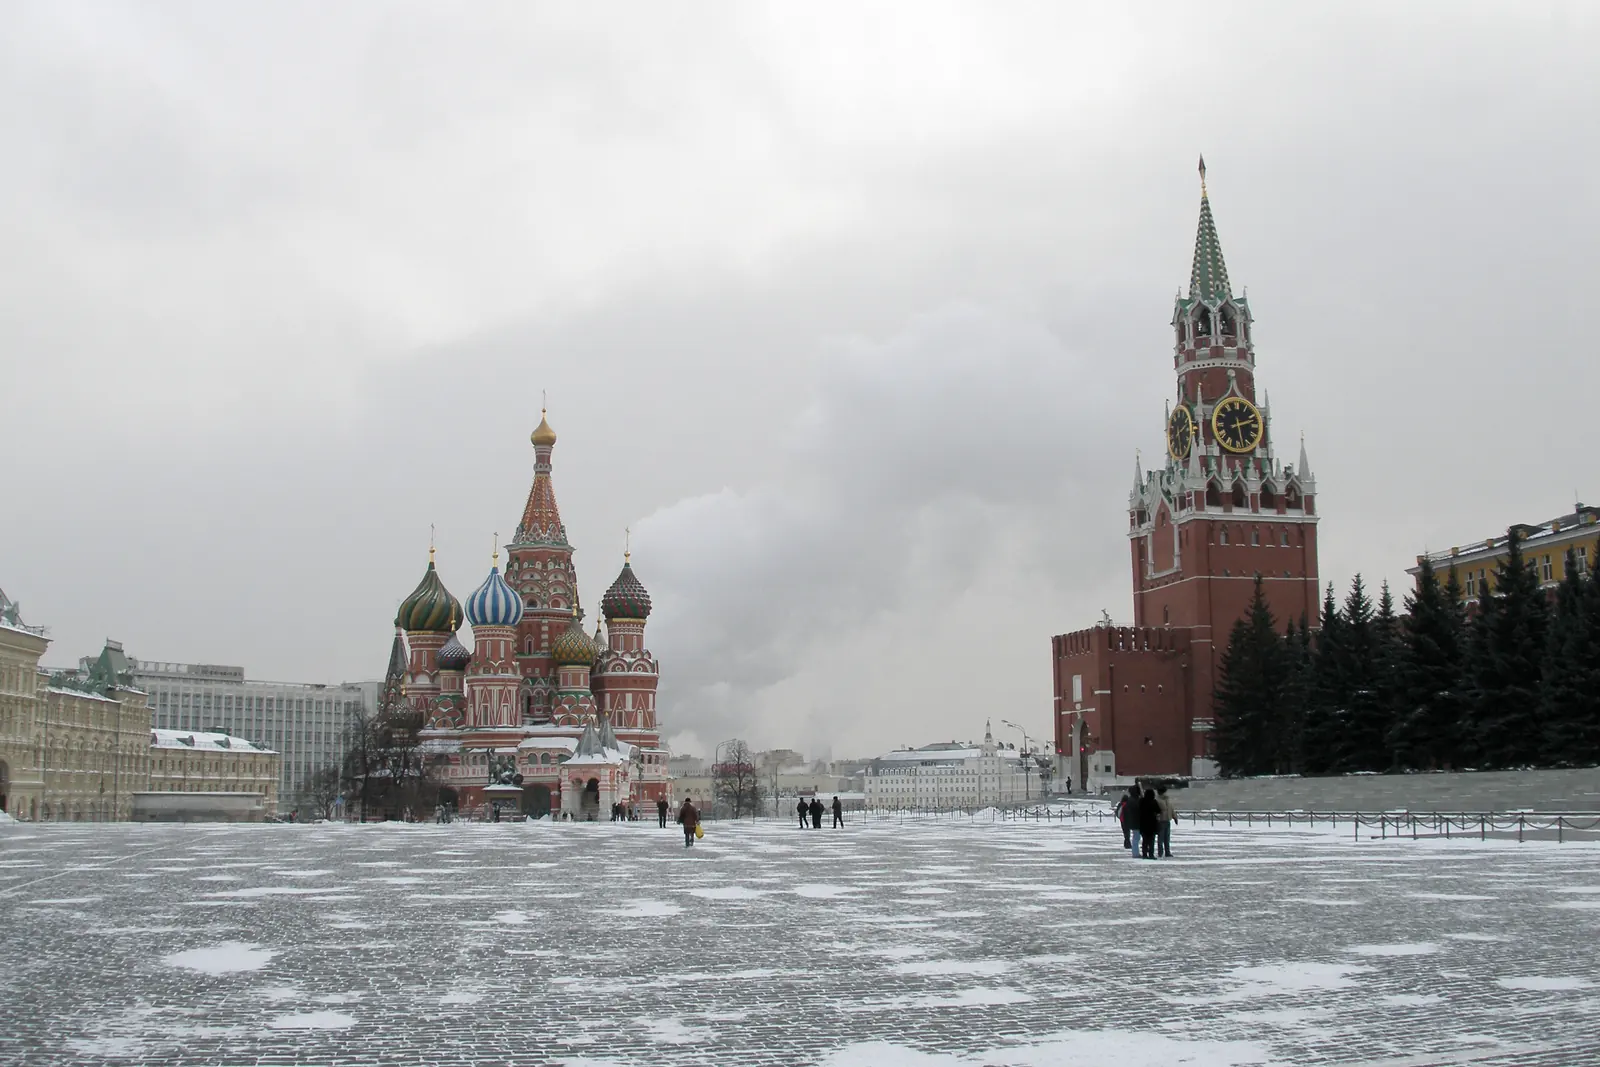
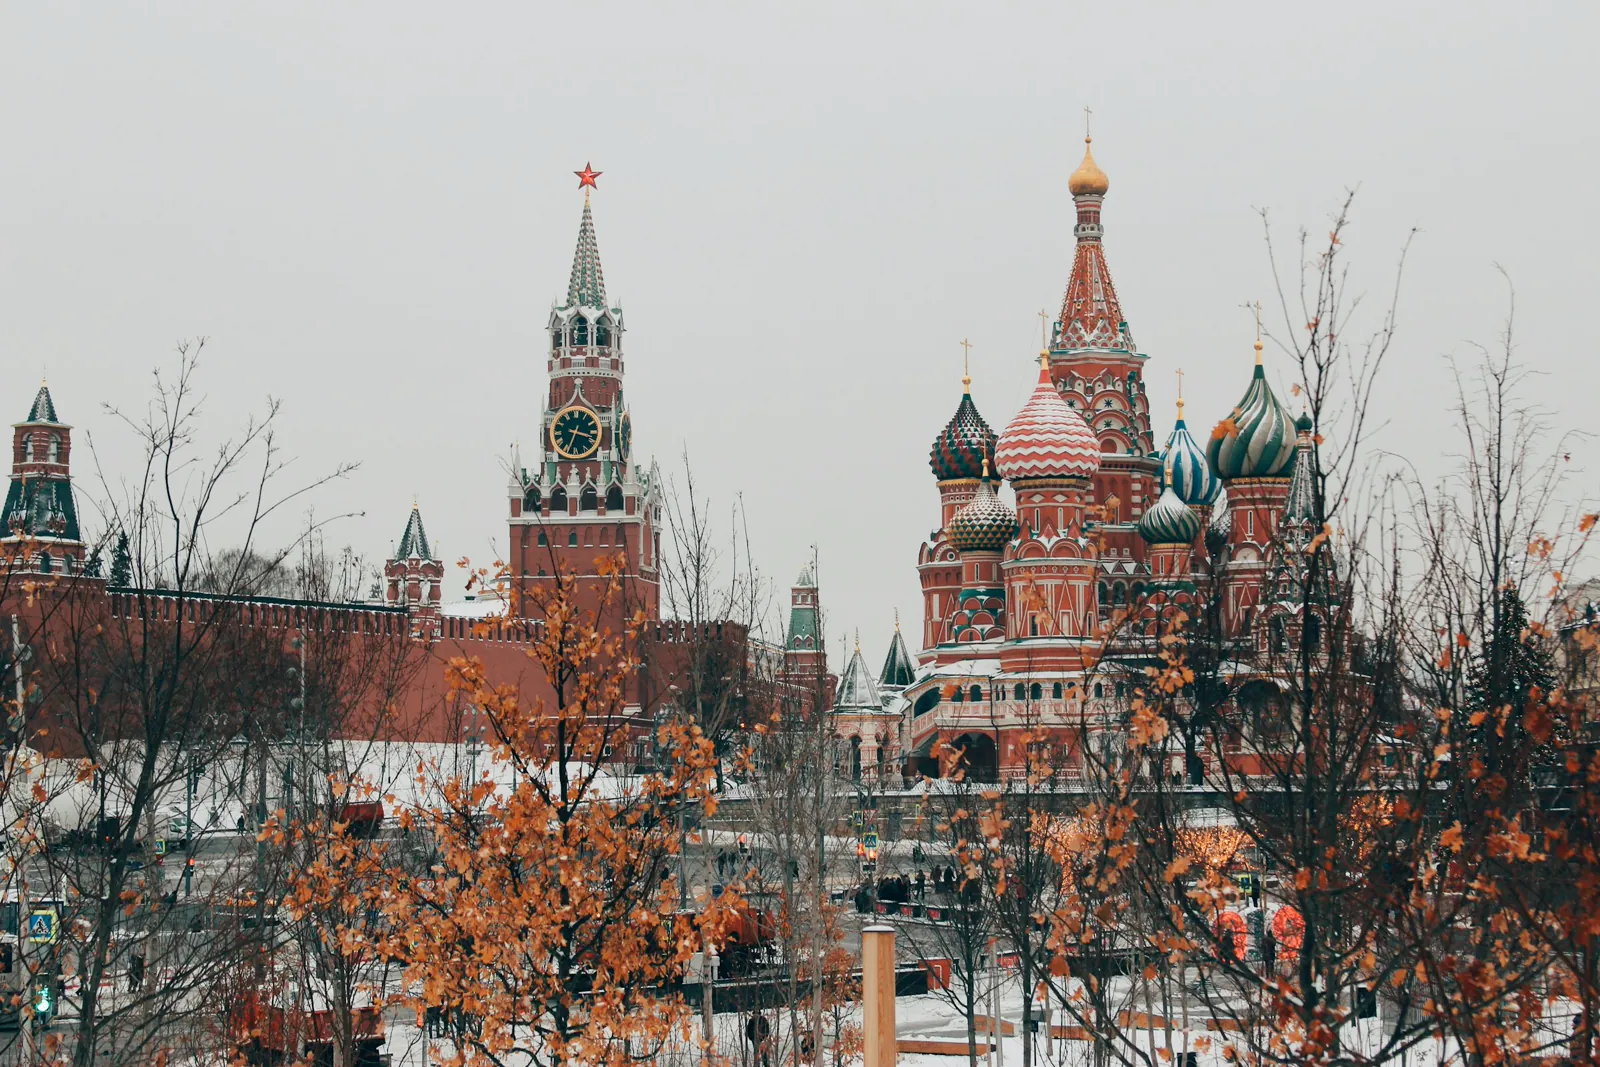
Update the first-page hero for the CEIBS Russia trip.
Replace the Red Square hero with the organizer photo, drop the guest-count line, enlarge the January 2027 dates, and make the eyebrow readable on the new image.

diff --git a/css/styles.css b/css/styles.css
@@ -162,7 +162,7 @@ button, input, textarea { font: inherit; color: inherit; }
   position: absolute;
   inset: 0;
   background:
-    linear-gradient(180deg, rgba(7, 20, 33, .45) 0%, rgba(7, 20, 33, .08) 32%, rgba(7, 20, 33, .55) 62%, rgba(7, 20, 33, .94) 100%);
+    linear-gradient(180deg, rgba(7, 20, 33, .5) 0%, rgba(7, 20, 33, .12) 28%, rgba(7, 20, 33, .62) 58%, rgba(7, 20, 33, .96) 100%);
 }
 
 .hero-copy {
@@ -180,10 +180,23 @@ button, input, textarea { font: inherit; color: inherit; }
   text-transform: uppercase;
 }
 
+.hero .eyebrow {
+  color: var(--snow);
+  font-size: .92rem;
+  letter-spacing: .08em;
+  text-transform: none;
+  text-shadow: 0 1px 14px rgba(7, 20, 33, .85), 0 0 2px rgba(7, 20, 33, .7);
+  font-weight: 500;
+}
+
 html[lang="zh-Hans"] .eyebrow {
   letter-spacing: .08em;
   text-transform: none;
   font-size: .86rem;
+}
+
+html[lang="zh-Hans"] .hero .eyebrow {
+  font-size: .95rem;
 }
 
 h1, h2, h3 { font-family: var(--serif); font-weight: 560; letter-spacing: -0.02em; }
@@ -200,17 +213,23 @@ html[lang="zh-Hans"] h1 { max-width: 8em; font-weight: 600; }
 
 h1 .line { display: block; }
 
-.subline {
+.hero-dates {
   max-width: 38rem;
-  margin: 1.1rem 0 0;
-  font-size: 1.05rem;
-  color: rgba(244, 247, 248, .88);
+  margin: 1.25rem 0 0;
+  font-family: var(--serif);
+  font-size: clamp(1.45rem, 3.6vw, 2.15rem);
+  line-height: 1.2;
+  font-weight: 560;
+  letter-spacing: -0.01em;
+  color: var(--snow);
+  text-shadow: 0 1px 12px rgba(7, 20, 33, .75);
 }
 
-.hero-meta {
-  margin: .85rem 0 0;
-  color: var(--aurora);
-  font-size: .92rem;
+.subline {
+  max-width: 38rem;
+  margin: .55rem 0 0;
+  font-size: 1.05rem;
+  color: rgba(244, 247, 248, .88);
 }
 
 .hero-actions { margin-top: 1.4rem; }

diff --git a/js/main.js b/js/main.js
@@ -110,8 +110,8 @@ function render(copy) {
   document.getElementById("hero-copy").innerHTML = `
     <p class="eyebrow">${esc(copy.hero.eyebrow)}</p>
     <h1><span class="line">${esc(copy.hero.headlineLead)}</span><span class="line">${esc(copy.hero.headlineRest)}</span></h1>
+    <p class="hero-dates">${esc(copy.hero.dates)}</p>
     <p class="subline">${esc(copy.hero.subline)}</p>
-    <p class="hero-meta">${esc(copy.hero.meta)}</p>
     <div class="hero-actions"><a class="btn" href="#register">${esc(copy.hero.cta)}</a></div>
     <div class="countdown" role="timer" aria-label="${esc(copy.hero.countdownLabel)}">
       <p class="countdown-label" id="countdown-label">${esc(copy.hero.countdownLabel)}</p>

diff --git a/CREDITS.md b/CREDITS.md
@@ -1,6 +1,6 @@
 # Photo credits
 
-Photographs are real pictures from Wikimedia Commons and Unsplash. They were resized and converted to WebP for the site. The share image `images/og.jpg` is a 1200×630 crop of the hero. Licenses below still apply to those derivatives.
+Most photographs are real pictures from Wikimedia Commons and Unsplash, resized and converted to WebP for the site. The first-screen hero and the share image `images/og.jpg` (a 1200×630 crop of that hero) were provided by the organizer. Licenses below still apply to the Commons/Unsplash derivatives.
 
 Replace a photo by putting a new file in `images/` and pointing the matching id in `js/main.js` (`MEDIA`) at it. Keep this list updated.
 
@@ -8,7 +8,7 @@ Replace a photo by putting a new file in `images/` and pointing the matching id 
 
 | File | What it shows | Author | License | Source |
 | --- | --- | --- | --- | --- |
-| `images/hero-red-square-winter.webp` | Red Square in snow, Moscow, January 2006 | Vyacheslav Argenberg | [CC BY 4.0](https://creativecommons.org/licenses/by/4.0) | [File page](https://commons.wikimedia.org/wiki/File:Red_Square_in_cold_winter,_Moscow,_Russia.jpg) |
+| `images/hero-red-square-winter.webp` | Red Square / Kremlin winter view used on the first screen | Provided by organizer | — | Organizer photo |
 | `images/basil-snow-night.webp` | Saint Basil’s Cathedral at night, snow on Red Square | Christian Senger | [CC BY-SA 2.0](https://creativecommons.org/licenses/by-sa/2.0) | [File page](https://commons.wikimedia.org/wiki/File:Snowy_St._Basil%27s_(3524266063).jpg) |
 | `images/teriberka-coast.webp` | Teriberka coast, Kola Peninsula | Ninara | [CC BY 2.0](https://creativecommons.org/licenses/by/2.0) | [File page](https://commons.wikimedia.org/wiki/File:Teriberka,_Kola_Peninsula,_Russia_(21697856432).jpg) |
 | `images/teriberka-aurora.webp` | Northern lights over the old weather station, Teriberka | Ted.ns | [CC BY 4.0](https://creativecommons.org/licenses/by/4.0) | [File page](https://commons.wikimedia.org/wiki/File:%D0%9F%D0%BE%D0%BB%D1%8F%D1%80%D0%BD%D0%BE%D0%B5_%D1%81%D0%B8%D1%8F%D0%BD%D0%B8%D0%B5_%D0%BD%D0%B0%D0%B4_%D0%B7%D0%B0%D0%B1%D1%80%D0%BE%D1%88%D0%B5%D0%BD%D0%BD%D1%8B%D0%BC_%D0%B7%D0%B4%D0%B0%D0%BD%D0%B8%D0%B5%D0%BC_%D0%BC%D0%B5%D1%82%D0%B5%D0%BE%D1%81%D1%82%D0%B0%D0%BD%D1%86%D0%B8%D0%B5%D0%B9.jpg) |
@@ -27,7 +27,7 @@ Replace a photo by putting a new file in `images/` and pointing the matching id 
 | `images/arctic-boat.webp` | A boat on the Arctic sea, August 2006 — not a winter boat at Teriberka | Ville Miettinen | [CC BY 2.0](https://creativecommons.org/licenses/by/2.0) | [File page](https://commons.wikimedia.org/wiki/File:Boat_on_the_Arctic_Sea_-_August_2006.jpg) |
 | `images/moscow-club.webp` | Nightclub with a DJ and a crowd. Used for the Moscow night / farewell party. Not a named Moscow venue | Joes Valentine | [Unsplash License](https://unsplash.com/license) | [Photo](https://unsplash.com/photos/a-dj-pumps-up-the-crowd-at-a-nightclub-IRIIr3zVy2k) |
 | `images/russian-plate.webp` | Close-up of a plated dish. Stand-in for the plate slot until a Russian course from the trip is available | Edgar Cavazos | [Unsplash License](https://unsplash.com/license) | [Photo](https://unsplash.com/photos/a-close-up-of-a-plate-of-food-on-a-table-3-iRH6cJLyw) |
-| `images/og.jpg` | Share image, cropped from the Red Square hero | Vyacheslav Argenberg | [CC BY 4.0](https://creativecommons.org/licenses/by/4.0) | Same source as the hero |
+| `images/og.jpg` | Share image, cropped from the Red Square hero | Provided by organizer | — | Same source as the hero |
 
 Swap the seafood and boat pictures for your own Teriberka frames when you have them: urchins and scallops just opened on the boat, and the boat itself in winter.
 
